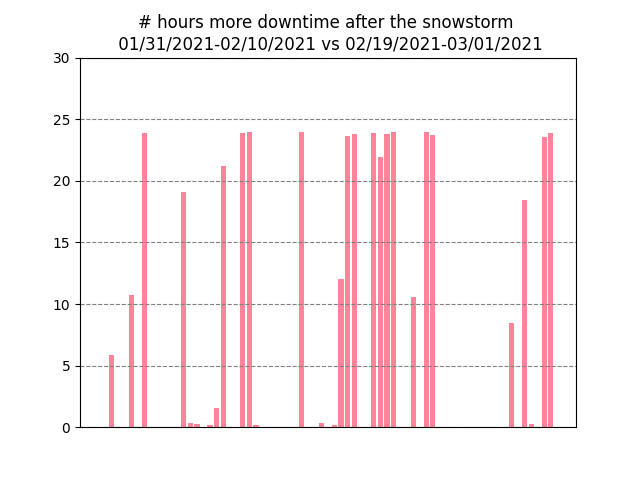
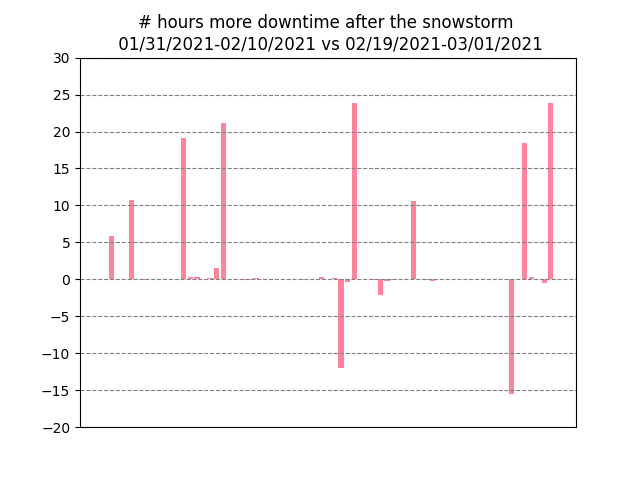
more graphs

diff --git a/texas_measurements/parse_texas_files.py b/texas_measurements/parse_texas_files.py
@@ -77,10 +77,10 @@ for probe in probes:
     y_axis_before.append(downtime_before[probe]/PERIOD_DURATION*100)
     y_axis_during.append(downtime_during[probe]/PERIOD_DURATION*100)
     y_axis_after.append(downtime_after[probe]/PERIOD_DURATION*100)
-    y_axis_more_after.append((downtime_after[probe] - downtime_before[probe]).seconds/(60*60))
+    y_axis_more_after.append((downtime_after[probe].seconds - downtime_before[probe].seconds)/(60*60))
 
 
 graphs.make_bar_chart(x_axis, y_axis_before, "% of downtime before the snowstorm \n" + DATE_BEFORE_START.strftime("%m/%d/%Y") + "-" + DATE_START.strftime("%m/%d/%Y"), "./texas_measurements/graphs/downtime_before.png")
 graphs.make_bar_chart(x_axis, y_axis_during, "% of downtime during the snowstorm \n" + DATE_START.strftime("%m/%d/%Y") + "-" + DATE_END.strftime("%m/%d/%Y"), "./texas_measurements/graphs/downtime_during.png")
 graphs.make_bar_chart(x_axis, y_axis_after, "% of downtime after the snowstorm \n" + DATE_END.strftime("%m/%d/%Y") + "-" + DATE_AFTER_END.strftime("%m/%d/%Y"), "./texas_measurements/graphs/downtime_after.png")
-graphs.make_bar_chart(x_axis, y_axis_more_after, "# hours more downtime after the snowstorm \n " + DATE_BEFORE_START.strftime("%m/%d/%Y") + "-" + DATE_START.strftime("%m/%d/%Y") + " vs " + DATE_END.strftime("%m/%d/%Y") + "-" + DATE_AFTER_END.strftime("%m/%d/%Y"), "./texas_measurements/graphs/after_vs_before.png", yticks=[0, 5, 10, 15, 20, 25, 30])
+graphs.make_bar_chart(x_axis, y_axis_more_after, "# hours more downtime after the snowstorm \n " + DATE_BEFORE_START.strftime("%m/%d/%Y") + "-" + DATE_START.strftime("%m/%d/%Y") + " vs " + DATE_END.strftime("%m/%d/%Y") + "-" + DATE_AFTER_END.strftime("%m/%d/%Y"), "./texas_measurements/graphs/after_vs_before.png", yticks=[-20, -15, -10, -5, 0, 5, 10, 15, 20, 25, 30])
